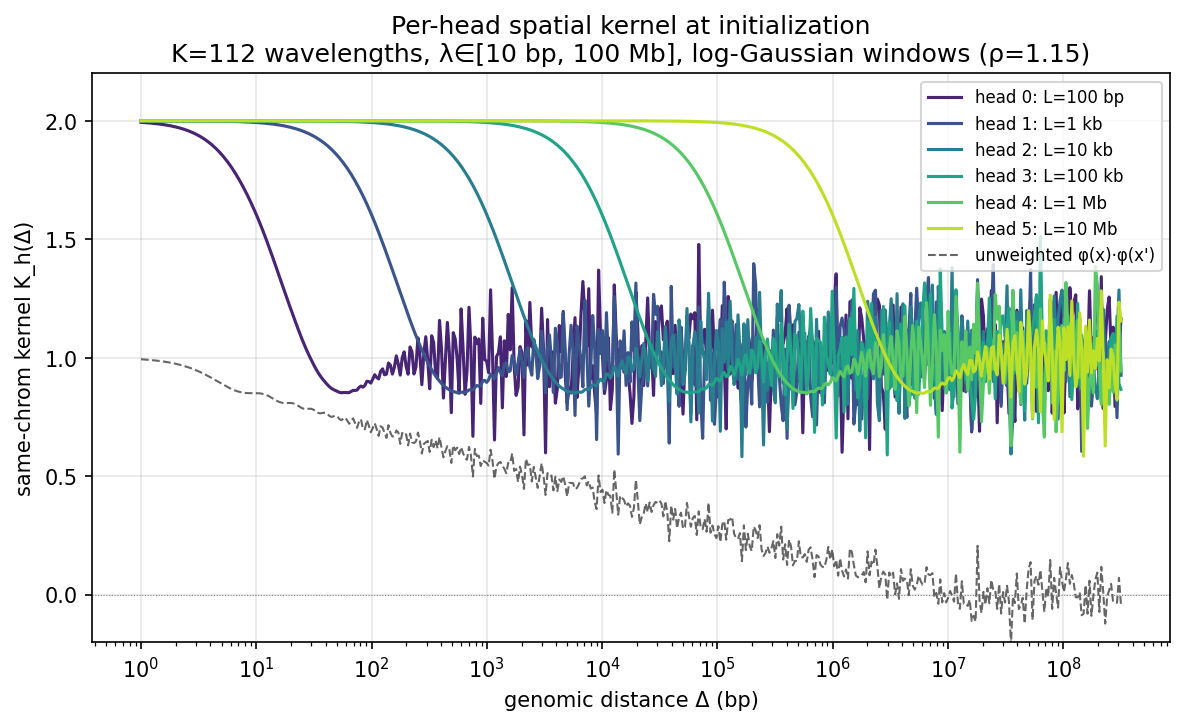
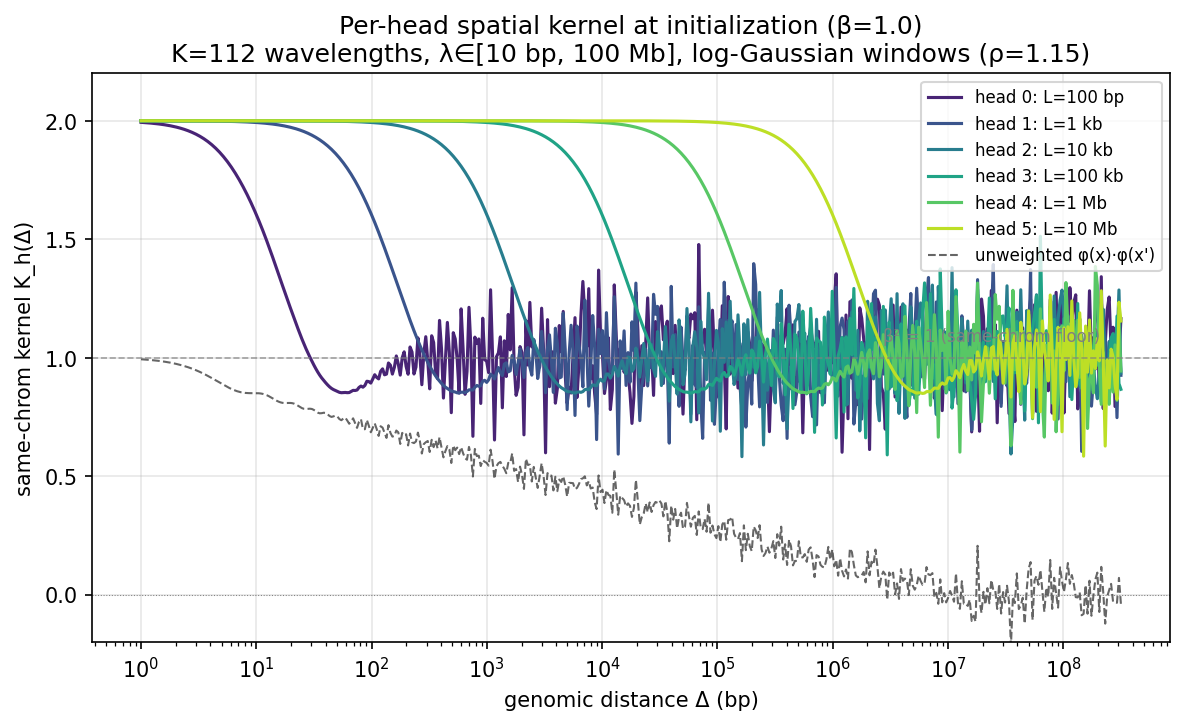
fix(scripts): annotate β² same-chrom floor in kernel sweep figure
The kernel baseline is at β²=1 (not 0) because the script uses β=1.
Added annotation and dashed line to make this visible.

Changed region(s): [[0.2812, 0.0, 0.7812, 0.0607], [0.7812, 0.4552, 0.9375, 0.4855]]

diff --git a/scripts/plot_kernel_scales.py b/scripts/plot_kernel_scales.py
@@ -93,8 +93,18 @@ def main():
     ax.set_ylabel("same-chrom kernel K_h(Δ)")
     lmin_s, lmax_s = _format_bp(lambda_min), _format_bp(lambda_max)
     ax.set_title(
-        f"Per-head spatial kernel at initialization\n"
+        f"Per-head spatial kernel at initialization (β={beta})\n"
         f"K={K} wavelengths, λ∈[{lmin_s}, {lmax_s}], log-Gaussian windows (ρ={rho:.2f})"
+    )
+    ax.axhline(beta**2, color="gray", linewidth=0.8, linestyle="--", alpha=0.7)
+    ax.annotate(
+        f"β² = {beta**2:.0f} (same-chrom floor)",
+        xy=(deltas[-1], beta**2),
+        xytext=(-10, 8),
+        textcoords="offset points",
+        fontsize=8,
+        ha="right",
+        color="gray",
     )
     ax.legend(fontsize=8, loc="upper right")
     ax.set_ylim(-0.2, 2.2)
